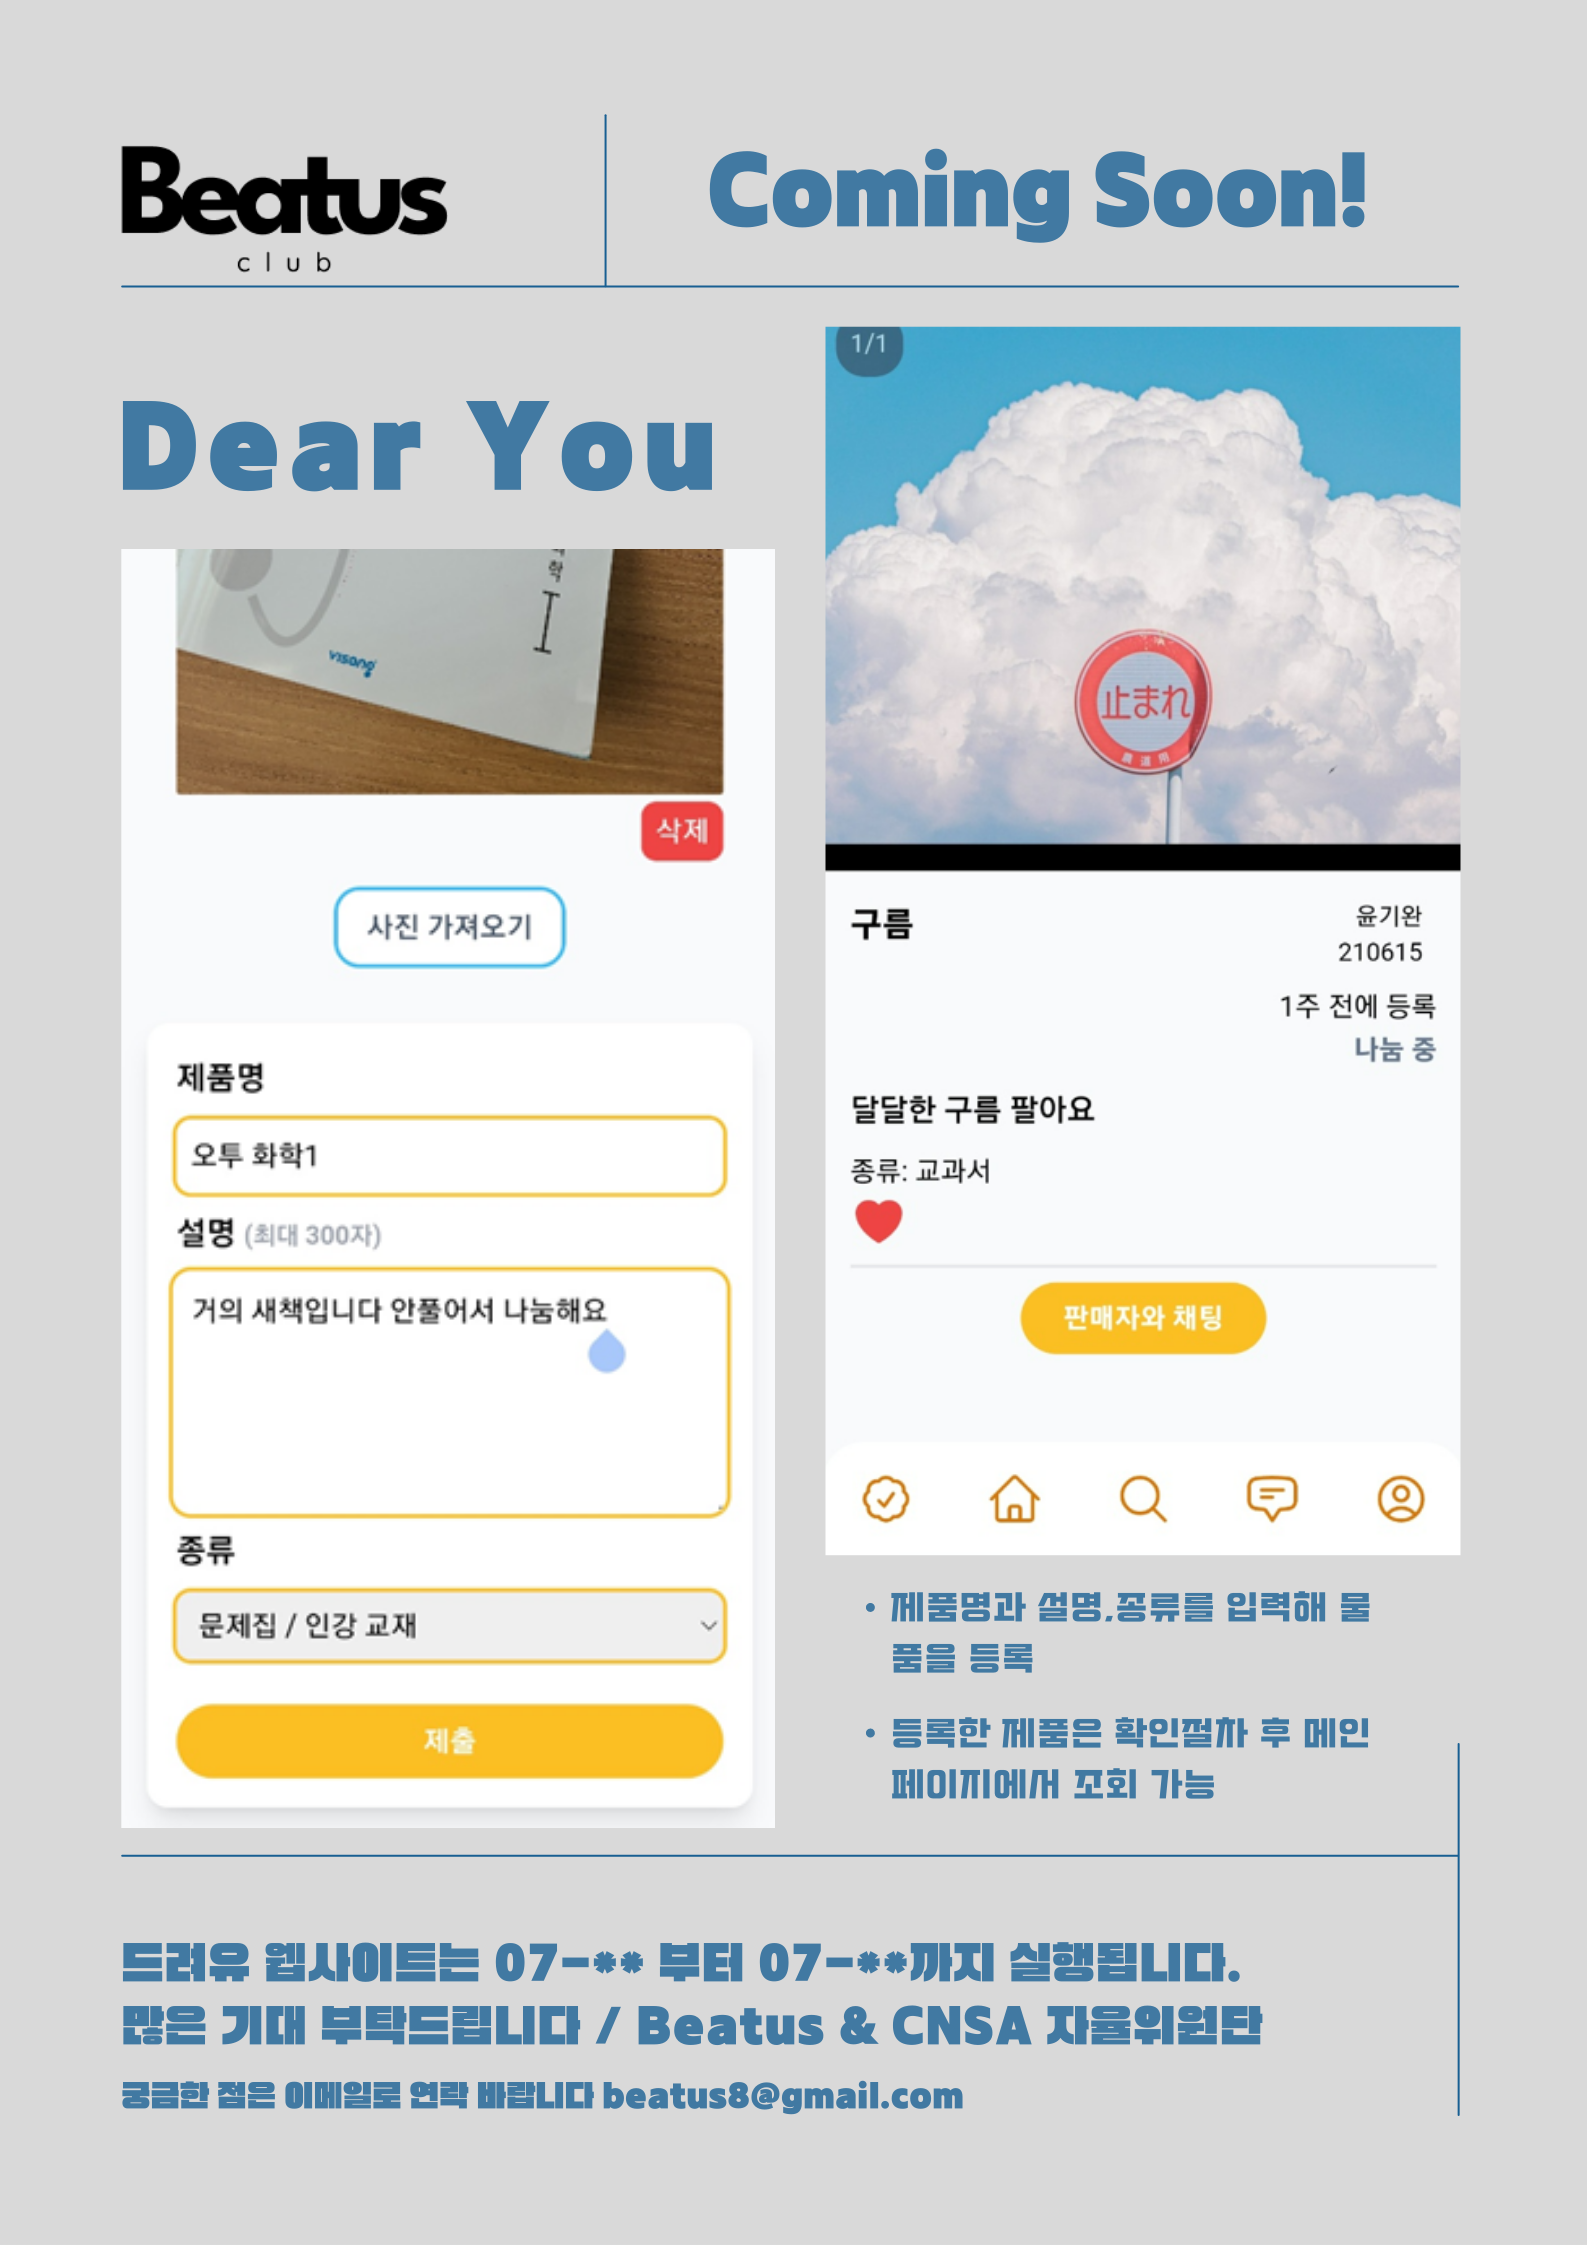
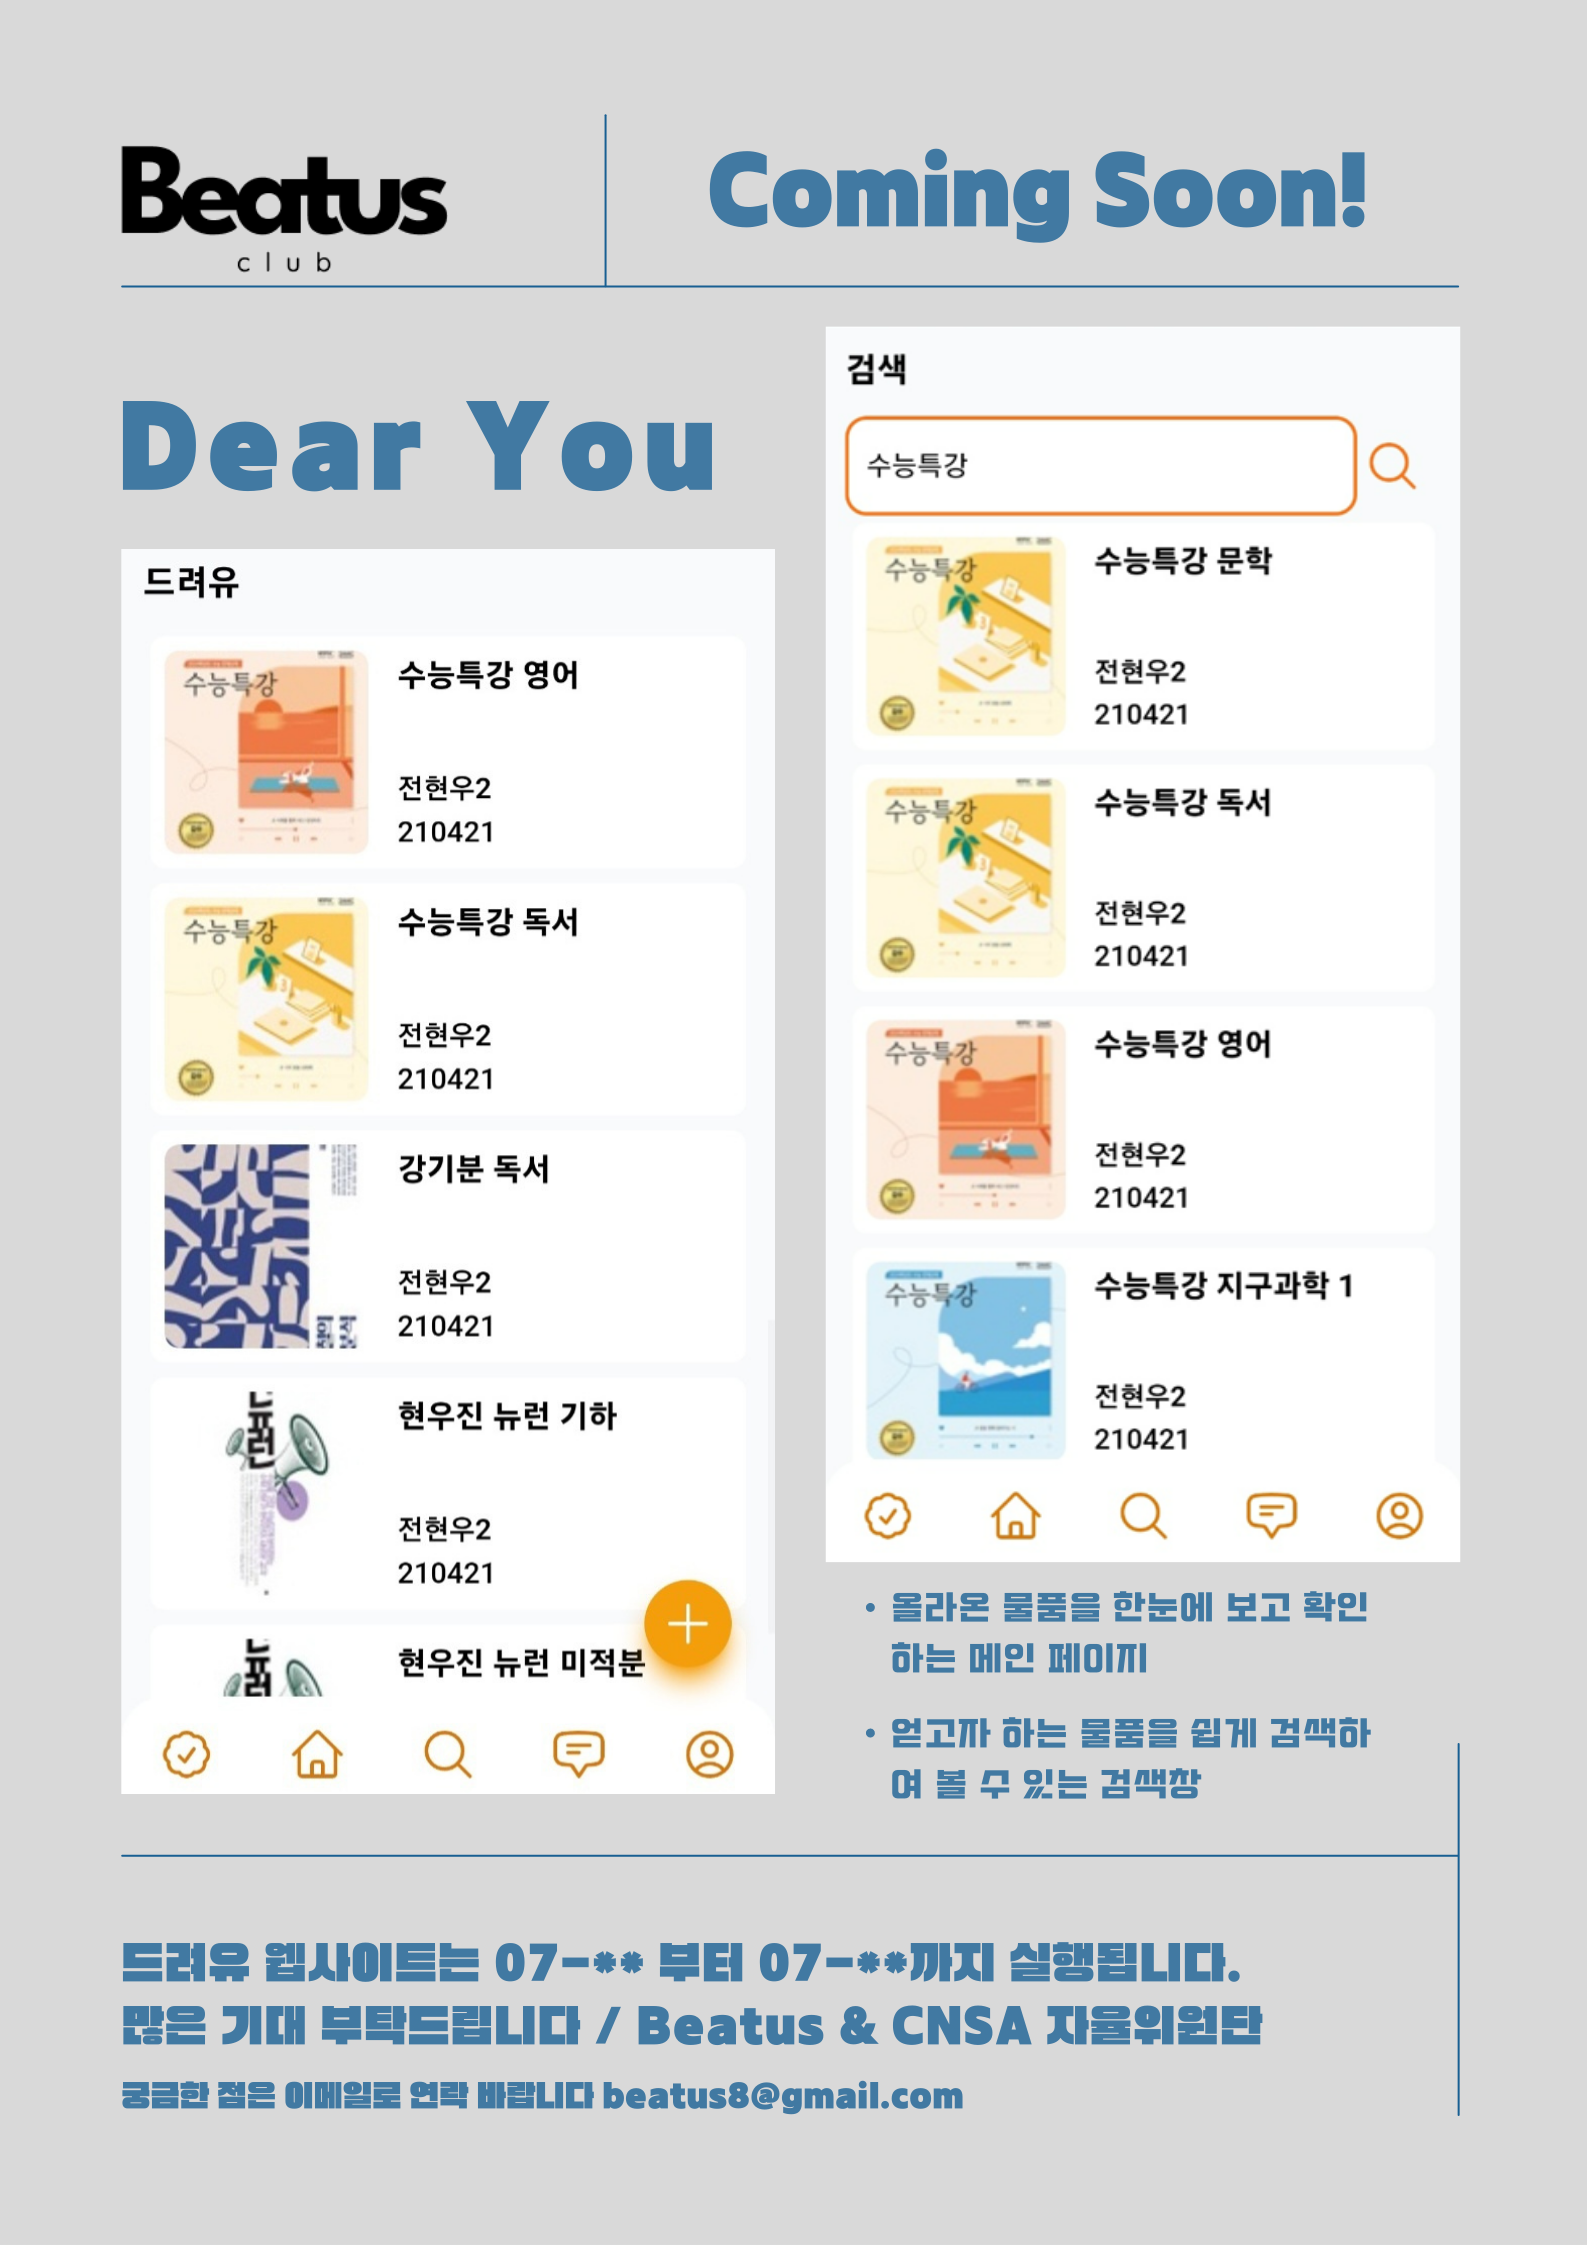
add video page

diff --git a/pages/project-dearyou/video.tsx b/pages/project-dearyou/video.tsx
@@ -48,43 +48,14 @@ export default function Dearyou() {
                 }}
                 className="mx-auto p-2"
             >
-                <div className='mx-auto mt-5'>
-                    <span className='font-bold'>드려유</span>는 우리 학교에서
+                <div className='mx-auto mt-4 mb-8'>
+                    홍보 영상은 7월 7일 공개됩니다.
                 </div>
-                <div className='mx-auto'>
-                    교과서, 풀지 않은 문제집, 학용품 등을
-                </div>
-                <div className='mx-auto'>
-                    쉽게 나누고 거래할 수 있는 온라인 플랫폼입니다!
-                </div>
-                <div className='mx-auto mt-5'>
-                    2회고사 이후 4일간(7.11~7.14)
-                </div>
-                <div className='mx-auto mb-5'>
-                    서비스를 운영할 계획입니다.
-                </div>
-                
-                <button className='mx-auto mt-10 mb-80 font-bold'
-                    onClick={()=>(
-                        scrollRef?.current?.scrollIntoView({
-                            behavior: "smooth"
-                        })
-                    )}>
-                    ▼ 소개 포스터 보러 가기
-                </button>
+                <Link href={`/project-dearyou`}
+                    className='mx-auto p-3 bg-amber-200 rounded-xl'>
+                        소개 페이지로 이동
+                </Link>
             </motion.div>
-
-            <div ref={scrollRef} className=''>
-            <Image src={Poster1} alt="Poster1" className="mx-auto w-full p-2"/>
-            <Image src={Poster2} alt="Poster2" className="mx-auto w-full p-2"/>
-            <Image src={Poster3} alt="Poster3" className="mx-auto w-full p-2"/>
-            <Image src={Poster4} alt="Poster4" className="mx-auto w-full p-2"/>
-            </div>
-            
-            <div className="mt-10 text-2xl">MADE BY</div>
-            <div className="mt-2">충남삼성고 IT 개발 동아리</div>
-            <Image src={BeatusLogo} alt="beatusLogo" className="w-64 h-64 mx-auto mb-10"/>
-            <div className="mb-20 text-lg">with. 10대 자율위원단</div>
             </div>
         </div>
     )
